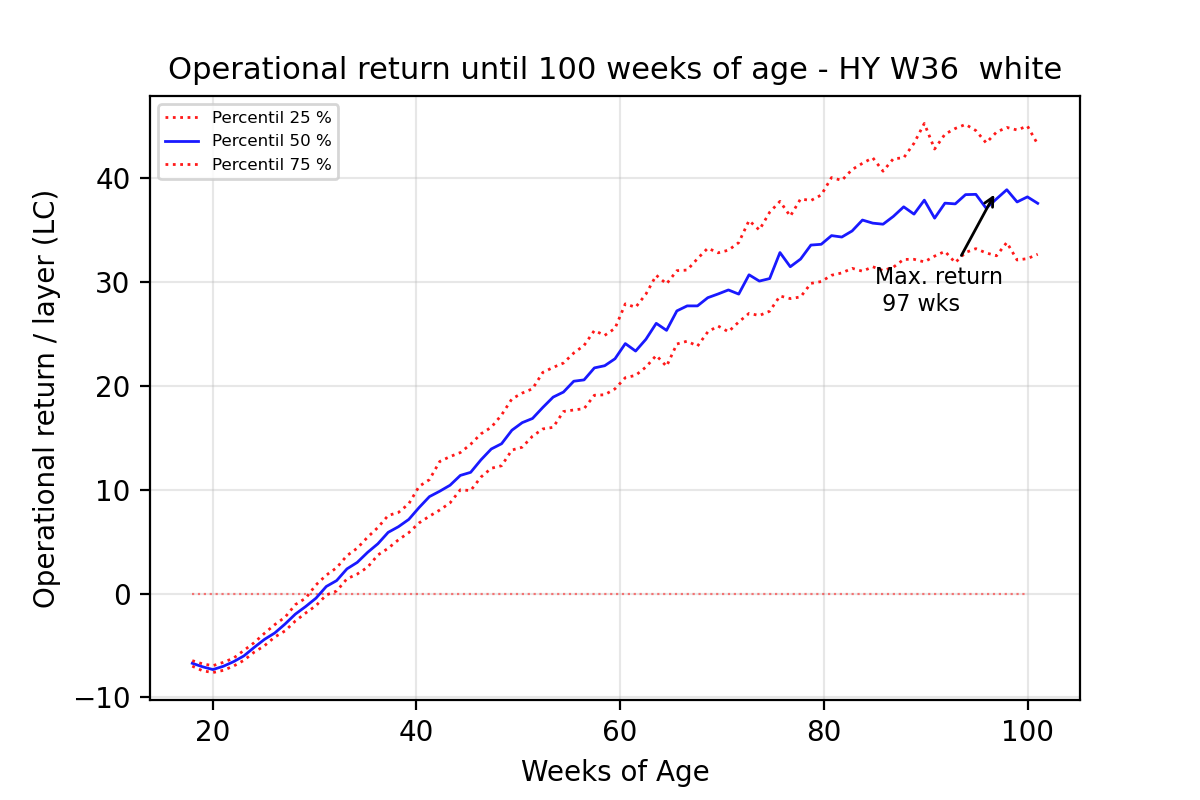
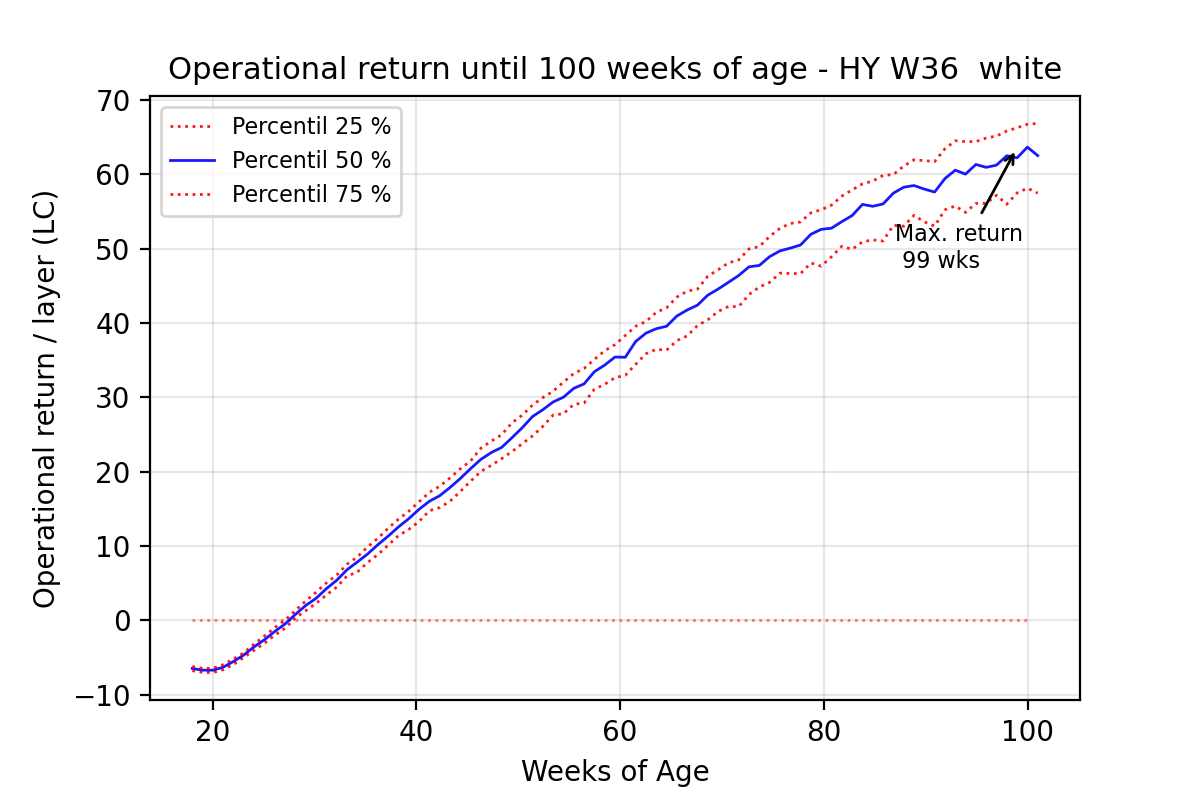
new chart for cost

diff --git a/layer_performance_py.py b/layer_performance_py.py
@@ -146,7 +146,8 @@ if not os.path.isfile("layers_dta.xlsx") :
 
 # import database from excel - see parameters.py file
 data_hy_w36 = pd.read_excel(working_path + "/" + 'layers_dta.xlsx' ,sheet_name= group1[2]) # sheet name is defined in parameter.py 
-#print(data_hy_w36.columns)
+print(data_hy_w36.columns)
+
 # convert to numpy
 data_1 = data_hy_w36[['feed_intake_min','feed_intake_max', 'hen_week_mort_cumulative', 'hen_day_egg_cum_min', 'hen_day_egg_cum_max', 'egg_weight_avg' ]].values  # input database and convert to np array
 production_wks = data_1.shape[0] # define the number of rows in database
@@ -630,6 +631,41 @@ delta_max_y_1 = delta_cum_median_layer_week_1[delta_cum_median_layer_week_1.argm
 
 weeks_axis =np.linspace(18, production_wks + 18, production_wks)   # creat axis for charts (production weeks)
 
+####################################### cost charts ################################
+#stackplot_colors = ["#d47332", "#377369", "#006de1"]
+#stackplot_labels =['Pullet', 'Feed', 'Aditiv']
+             
+fig, ax = plt.subplots()
+ax.stackplot(weeks_axis,
+             pullet_cost_median_1,
+             feed_cost_cum_median_week_1_no_add,
+             aditiv_cum_cost_median_layer_week_1,
+             colors = stackplot_colors,
+             labels = stackplot_labels,
+             alpha = 1)
+
+ax.legend(loc='upper left',
+          fontsize=fontsize_legend_1,
+          )
+ax.grid(alpha=.3)
+ax.set_title('{}\n {} - {}'.format(stack_title_1, group1[0],group1[1]),
+             fontsize= fontsize_title_1,
+             )
+ax.set_ylabel(stack_ylabel_1,
+              fontsize=fontsize_y_axis_1,
+              )
+ax.set_xlabel(stack_xlabel_1,
+              fontsize=fontsize_x_axis_1,
+              )
+plt.savefig('main_costs_age.png',
+            dpi=dpi_charts,
+            transparent=-True,
+            )
+plt.show()
+
+
+
+###################################### operational return chart #####################
 plt.plot(weeks_axis,
          delta_cum_q1_layer_week_1,
          label = label_1[0],
@@ -659,7 +695,7 @@ plt.legend(loc='best',
            fontsize=fontsize_legend_1
            )
 plt.xlabel("Weeks of Age",
-           fontsize=fontize_x_axis_1,
+           fontsize=fontsize_x_axis_1,
            fontstyle = fontstyle_x_axis_1)
 plt.ylabel('Operational return / layer (LC)')
 
@@ -672,9 +708,7 @@ else :
       x_fact = delta_max_x_1 + 5
       y_fact = delta_max_y_1 + ((ymax-ymin)/5)
 
-
-
-plt.annotate("Max. return \n {} wks".format(delta_max_x_1),
+plt.annotate("Max. return \n {} wks".format(delta_max_x_1),  # plot the max return rate week
              fontsize = fontsize_annot_1,
             
             xy=(delta_max_x_1, delta_max_y_1), xycoords='data',
@@ -686,7 +720,7 @@ plt.hlines(0,
            18,
            100,
            linestyle = 'dotted',
-           linewidth = .8,
+           linewidth = 1,
            color = 'r',
            alpha=.5)
 plt.grid(alpha=.3)
@@ -707,7 +741,6 @@ print(index_error)
 #      connectionstyle="arc3")
 #      )
 
-   
 plt.savefig('operational_return.png',
             dpi=dpi_charts,
             transparent=-True,

diff --git a/setup_charts_parameters.py b/setup_charts_parameters.py
@@ -7,9 +7,9 @@ delta_color_1 =['r','b','r'] # line color of delta charts 1
 
 fontsize_label_1 =10
 fontsize_title_1 =11
-fontize_x_axis_1 =10
+fontsize_x_axis_1 =10
 fontsize_y_axis_1 =10
-fontsize_legend_1 =6
+fontsize_legend_1 =8
 fontsize_annot_1 =8
 fontsize_copyright =8
 
@@ -22,3 +22,15 @@ fontstyle_annot_1 ='normal'
 fontstyle_copyright ='normal'
 
 dpi_charts = 200 # resolution of the graph files
+
+
+###########################################################################################
+# Stackplot parameters -  # colors of the stackplots (1 - pullet, 2 - feed, 3 - feed aditiv)
+stackplot_colors = ["#c0c2ce",\
+		    "#e5e6eb",\
+ 		     "#006de1"]
+
+stackplot_labels =['Pullet', 'Feed', 'Aditiv'] # labels of the stackplots
+stack_title_1 = 'Main cumulative costs / layer / age'
+stack_ylabel_1 = "Cum. cost / layer / age (LC)"
+stack_xlabel_1 = "weeks of age"

diff --git a/parameters.py b/parameters.py
@@ -50,7 +50,7 @@ pullet_cost_1  = [5, 7, 6, 't']  # min, max., mp, distribution
 
 
 # feed costs
-feed_cost_ton_1 = [1000, 1700, 1500, 't'] # min, max., mp, distribution
+feed_cost_ton_1 = [800, 1300, 900, 't'] # min, max., mp, distribution
 
 # aditive cost 
 aditiv_cost_ton_1 = [9, 15, 10, 'f']
